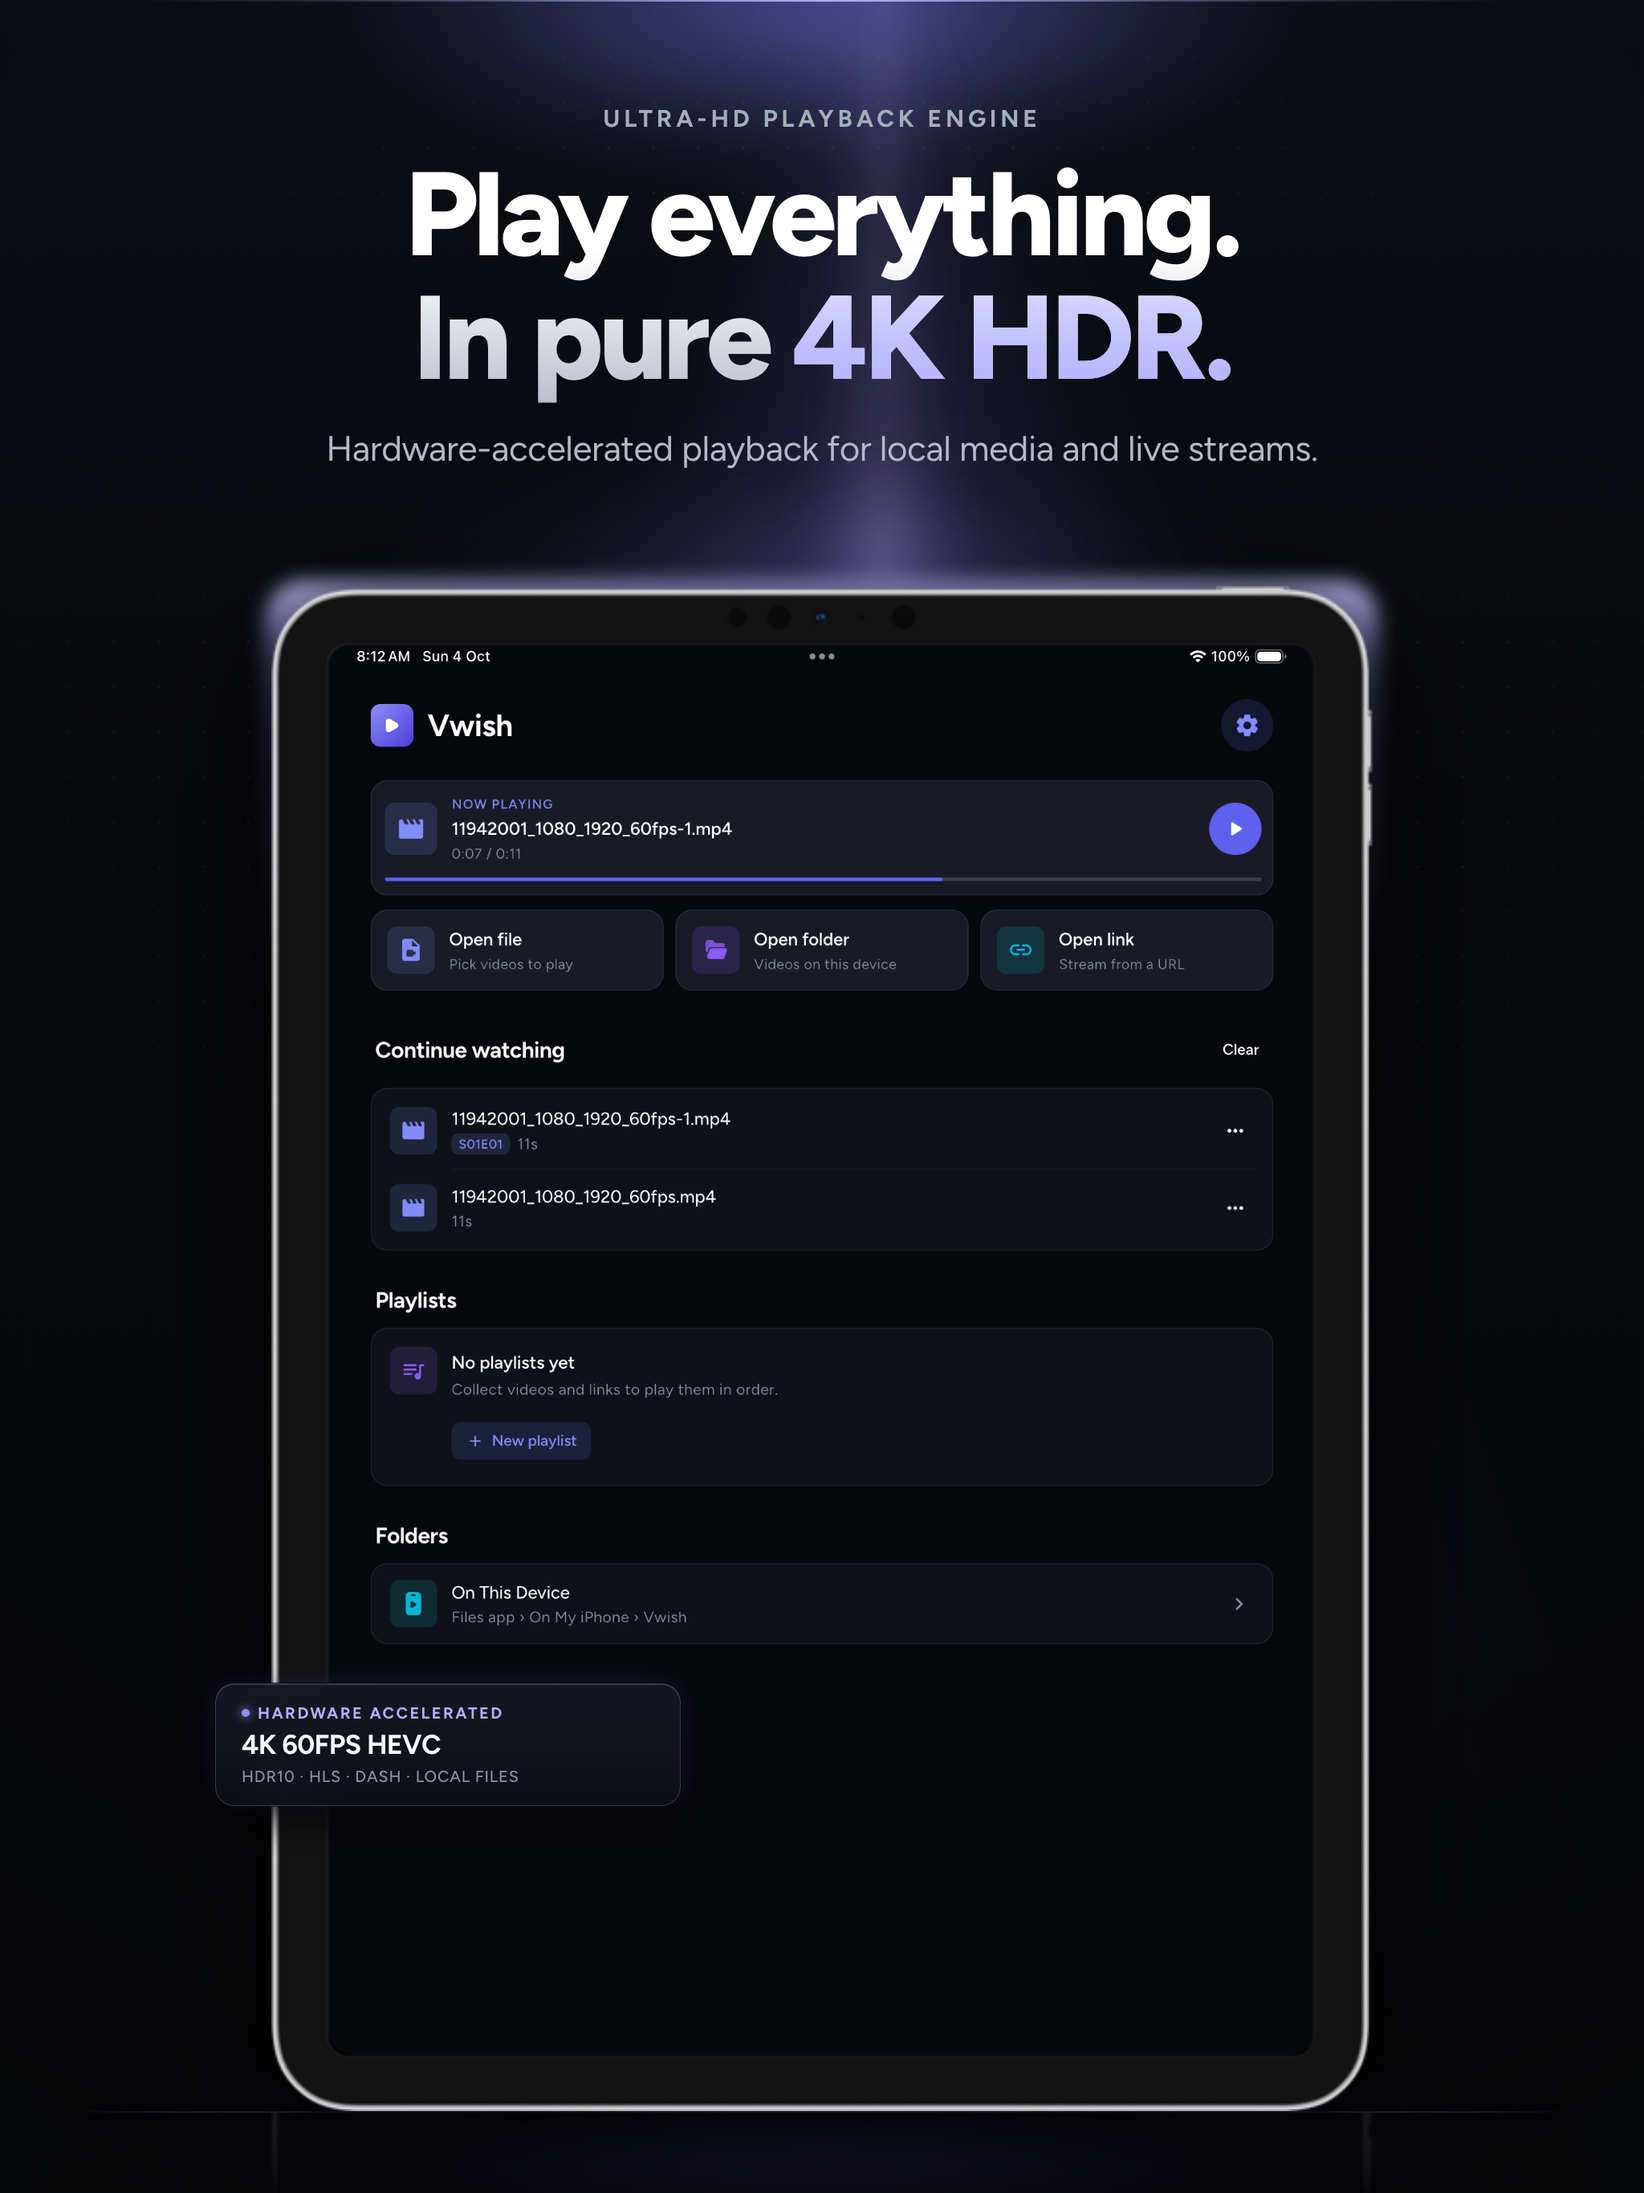
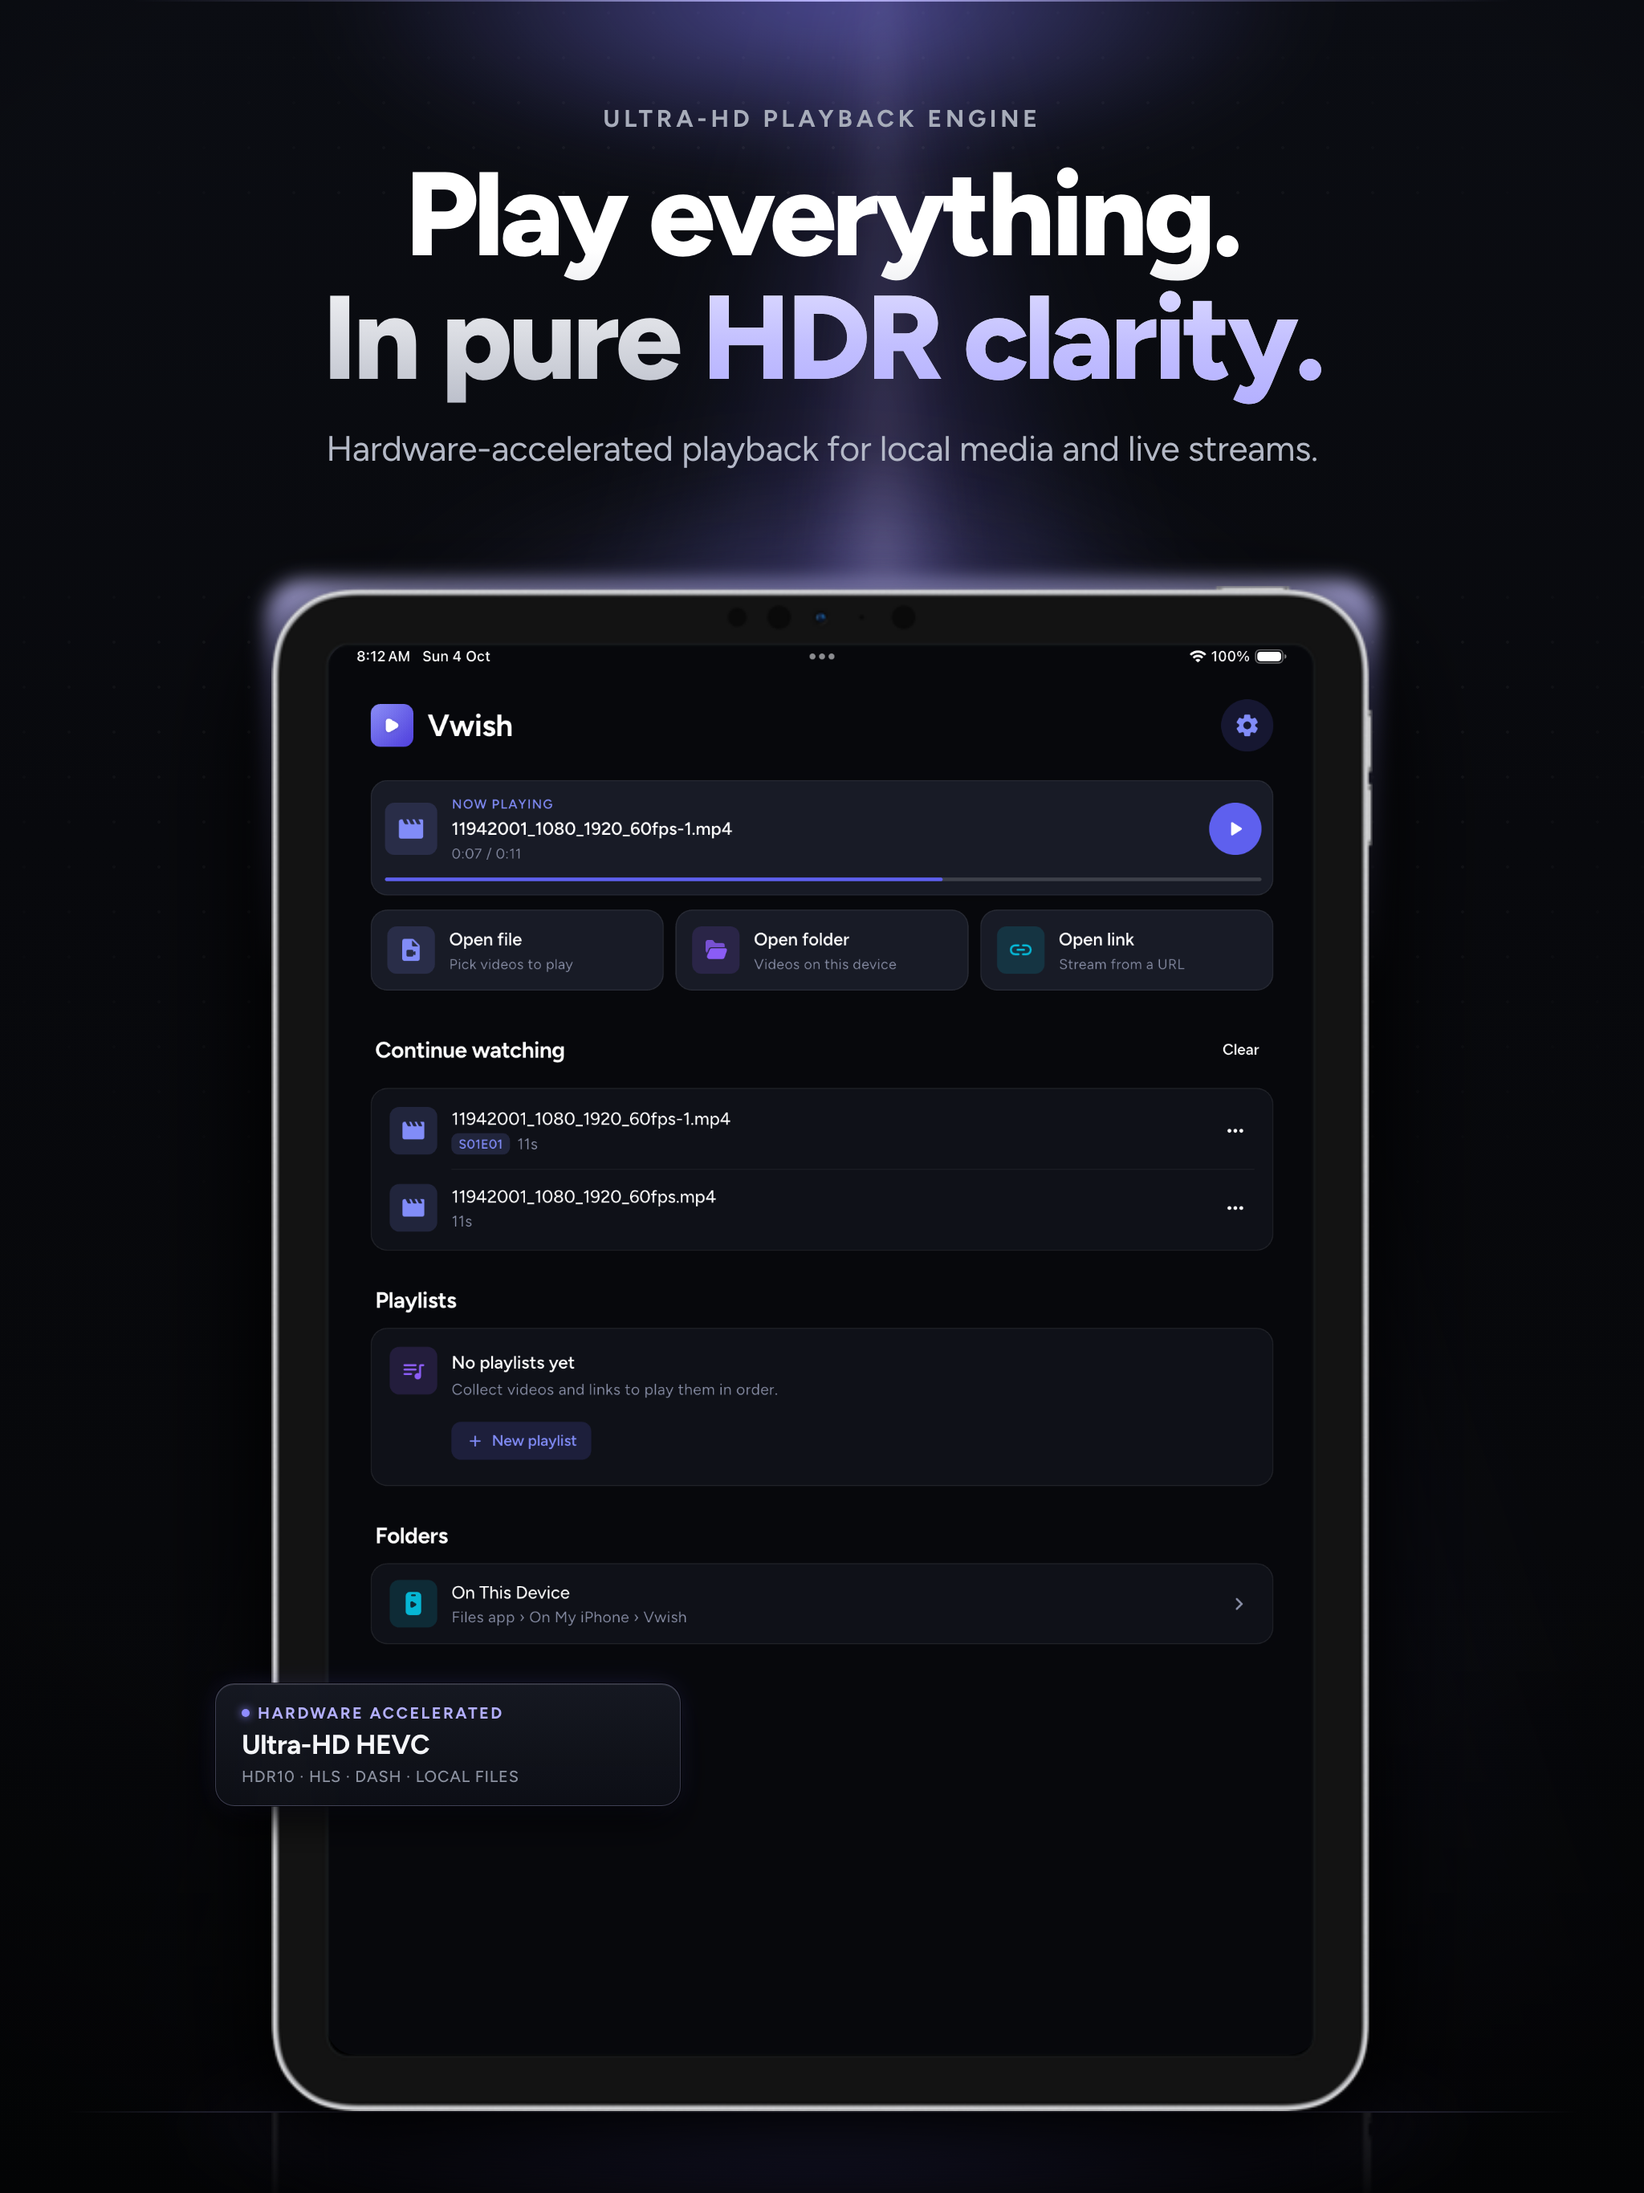
feat(store): generalize copy to remove 4K/8K, update subtitle to All-Format HD Video Player, and re-sync App Store Connect

Changed region(s): [[0.1875, 0.1245, 0.8125, 0.1867], [0.1562, 0.7778, 0.25, 0.8089]]

diff --git a/generate_ipad_screenshots.py b/generate_ipad_screenshots.py
@@ -28,13 +28,13 @@ slides = [
         "id": "01_hero_4k",
         "eyebrow": "ULTRA-HD PLAYBACK ENGINE",
         "headline_line1": "Play everything.",
-        "headline_line2": "In pure <span class=\"lit\">4K HDR.</span>",
+        "headline_line2": "In pure <span class=\"lit\">HDR clarity.</span>",
         "subline": "Hardware-accelerated playback for local media and live streams.",
         "screen_img": to_base64(os.path.join(SRC_DIR, "ipad_01_home.png")),
         "chip_pos": "left",
         "chip_vertical": "bottom: 20%;",
         "chip_status": "HARDWARE ACCELERATED",
-        "chip_title": "4K 60FPS HEVC",
+        "chip_title": "Ultra-HD HEVC",
         "chip_meta": "HDR10 · HLS · DASH · LOCAL FILES"
     },
     {
@@ -57,13 +57,13 @@ slides = [
         "eyebrow": "STREAM INTELLIGENCE",
         "headline_line1": "Zero buffer.",
         "headline_line2": "Tested in <span class=\"lit\">real time.</span>",
-        "subline": "Integrated speed test, ping diagnostics, and 4K stream readiness.",
+        "subline": "Integrated speed test, ping diagnostics, and stream readiness.",
         "screen_img": to_base64(os.path.join(SRC_DIR, "ipad_03_speed_test.png")),
         "chip_pos": "right",
         "chip_vertical": "bottom: 20%;",
         "chip_status": "NETWORK VERIFIED",
         "chip_title": "Stream Speed Test",
-        "chip_meta": "PING · JITTER · BANDWIDTH TEST"
+        "chip_meta": "PING · JITTER · STREAM READY"
     },
     {
         "index": 4,

diff --git a/generate_screenshots.py b/generate_screenshots.py
@@ -24,13 +24,13 @@ slides = [
         "id": "01_hero_4k",
         "eyebrow": "ULTRA-HD PLAYBACK ENGINE",
         "headline_line1": "Play everything.",
-        "headline_line2": "In pure <span class=\"lit\">4K HDR.</span>",
+        "headline_line2": "In pure <span class=\"lit\">HDR clarity.</span>",
         "subline": "Hardware-accelerated playback for local media and live streams.",
         "screen_img": to_base64(os.path.join(SRC_DIR, "01_home.png")),
         "chip_pos": "left",
         "chip_vertical": "bottom: 20%;",
         "chip_status": "HARDWARE ACCELERATED",
-        "chip_title": "4K 60FPS HEVC",
+        "chip_title": "Ultra-HD HEVC",
         "chip_meta": "HDR10 · HLS · DASH · LOCAL FILES"
     },
     {
@@ -51,13 +51,13 @@ slides = [
         "eyebrow": "STREAM INTELLIGENCE",
         "headline_line1": "Zero buffer.",
         "headline_line2": "Tested in <span class=\"lit\">real time.</span>",
-        "subline": "Integrated speed test, ping diagnostics, and 4K stream readiness.",
+        "subline": "Integrated speed test, ping diagnostics, and stream readiness.",
         "screen_img": to_base64(os.path.join(SRC_DIR, "03_speed_test.png")),
         "chip_pos": "left",
         "chip_vertical": "bottom: 20%;",
         "chip_status": "NETWORK VERIFIED",
         "chip_title": "33.1 Mbps Download",
-        "chip_meta": "69 ms PING · 4K STREAM READY"
+        "chip_meta": "69 ms PING · STREAM READY"
     },
     {
         "id": "04_color_mastering",

diff --git a/publishing/README.md b/publishing/README.md
@@ -73,10 +73,10 @@ publishing/
 
 | # | Slide ID | Headline | Key Benefit | Telemetry Card |
 |---|---|---|---|---|
-| **01** | `01_hero_4k` | **Play everything.**<br>In pure **4K HDR.** | Universal hardware decoding (HEVC, AV1, HLS, DASH, local files) | `4K 60FPS HEVC` · Hardware accelerated |
-| **02** | `02_equalizer_bass` | **Studio sound.**<br>Tuned to **your ears.** | 10-band parametric equalizer, bass boost, and audio normalization | `10-Band Equalizer` · +6.0 dB Bass Boost |
-| **03** | `03_speed_diagnostics` | **Zero buffer.**<br>Tested in **real time.** | Integrated 4K speed test, ping diagnostics, and link validator | `33.1 Mbps Download` · 4K Stream Ready |
-| **04** | `04_color_mastering` | **Every frame,**<br>color **graded live.** | Real-time brightness, contrast, saturation, gamma, and A-B repeat | `Hardware Color Grade` · Live gamma & contrast |
+| **01** | `01_hero_4k` | **Play everything.**<br>In pure **HDR clarity.** | Universal hardware decoding (HEVC, AV1, HLS, DASH, local files) | `Ultra-HD HEVC` · Hardware accelerated |
+| **02** | `02_equalizer_bass` | **Smart playback.**<br>Tuned to **your rhythm.** | Custom seek gestures, stream inspection, and media tools | `Custom Seek Controls` · 5s–30s Seek |
+| **03** | `03_speed_diagnostics` | **Zero buffer.**<br>Tested in **real time.** | Integrated speed test, ping diagnostics, and link validator | `Stream Speed Test` · Stream Ready |
+| **04** | `04_color_mastering` | **Every frame,**<br>color **graded live.** | Real-time brightness, contrast, saturation, gamma, and hue | `Hardware Color Grade` · Live gamma & contrast |
 | **05** | `05_privacy_storage` | **Your media.**<br>Zero **tracking.** | 100% on-device sandbox, no telemetry, direct Files integration | `Zero Data Collected` · Private sandbox |
 
 ---
